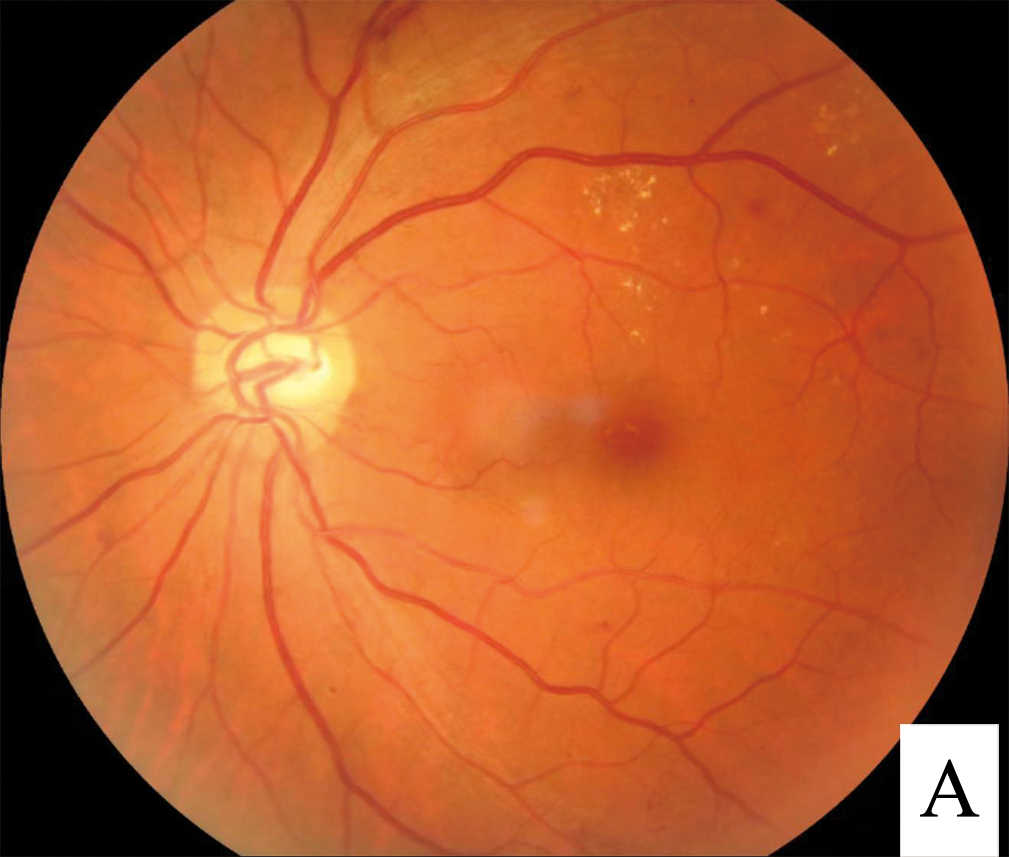
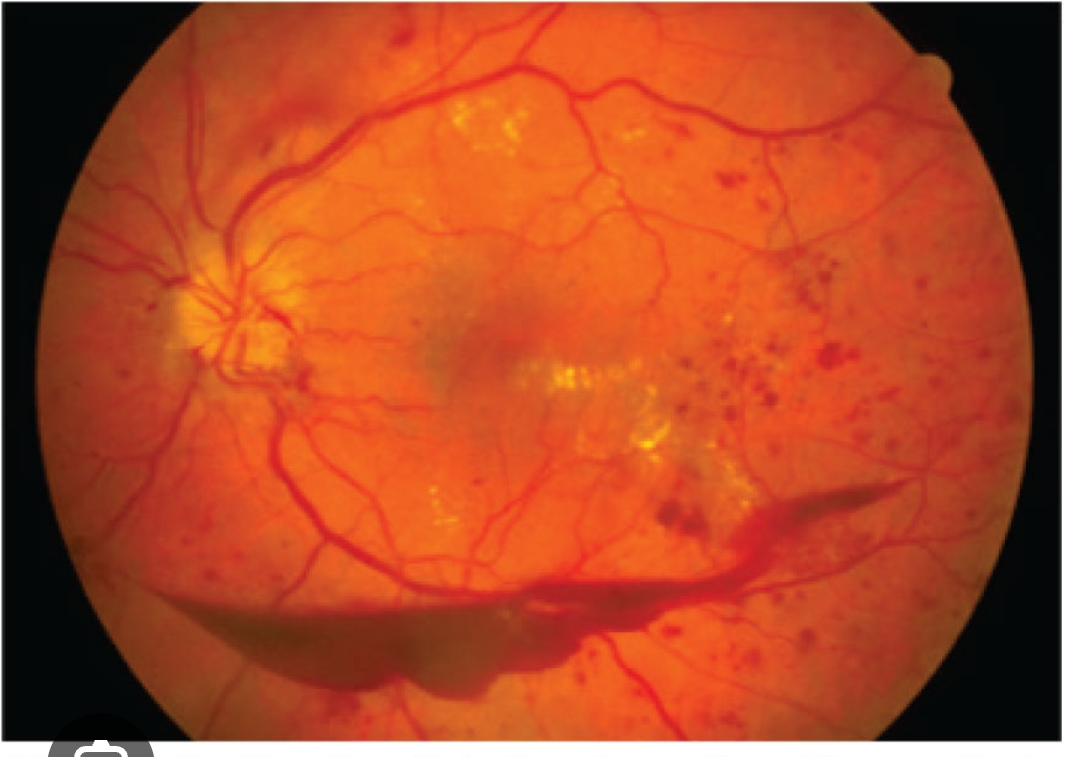
fix: calibrate clinical biomarker scoring for deep hemorrhages and proliferative DR

diff --git a/backend/test_predict_api.js b/backend/test_predict_api.js
@@ -6,6 +6,7 @@ const testImages = [
     path.resolve(__dirname, "..", "version4", "model", "results", "normal_benchmark.png"),
     path.resolve(__dirname, "..", "version4", "model", "results", "moderate_wikimedia.png"),
     path.resolve(__dirname, "..", "version4", "model", "results", "pdr_wikimedia.jpg"),
+    path.resolve(__dirname, "..", "version4", "model", "results", "last_uploaded.png"),
 ];
 
 async function runTest(img) {

diff --git a/version4/model/predict.py b/version4/model/predict.py
@@ -153,42 +153,76 @@ def fundus_biomarker_analysis(image_path: str, original_filename: str = ""):
         mean_g = float(np.mean(fundus_pixels))
         std_g = float(np.std(fundus_pixels))
 
-        # Lesion Candidate 1: Dark lesions (Microaneurysms, blot hemorrhages)
-        dark_thresh = max(10.0, mean_g - 2.2 * std_g)
-        dark_lesion_count = int(np.sum((g[mask] < dark_thresh) & (fundus_pixels > 5.0)))
-        dark_density = dark_lesion_count / max(1, fundus_pixels.size)
+        # 1. Dark lesion / Hemorrhage metrics (microaneurysms, blot hemorrhages, deep pooling)
+        g_mask = g[mask]
+        r_mask = r[mask]
+        b_mask = b[mask]
+        total_pixels = max(1, g_mask.size)
 
-        # Lesion Candidate 2: Bright lesions (Hard exudates, cotton wool spots)
-        bright_thresh = min(245.0, mean_g + 2.4 * std_g)
-        bright_lesion_count = int(np.sum((g[mask] > bright_thresh) & (r[mask] > bright_thresh * 0.85)))
-        bright_density = bright_lesion_count / max(1, fundus_pixels.size)
+        dark_65 = float(np.sum((g_mask < 65.0) & (g_mask > 8.0)) / total_pixels)
+        dark_55 = float(np.sum((g_mask < 55.0) & (g_mask > 8.0)) / total_pixels)
 
-        # Vascular contrast metric (vessel sharpness vs parenchyma)
+        # High R/G ratio indicates hemoglobin absorption (preretinal / subhyaloid / vitreous hemorrhage)
+        rg_ratio = (r_mask + 1.0) / (g_mask + 1.0)
+        blood_ratio = float(np.sum(rg_ratio > 2.4) / total_pixels)
+
+        # 2. Hard lipid exudates (bright yellowish lesions)
+        exudates = float(np.sum((r_mask > 160) & (g_mask > 115) & (b_mask < 110) & (r_mask > b_mask + 45)) / total_pixels)
+
+        # 3. Cotton-wool spots / fibrous proliferation (bright white patches)
+        bright_thresh = min(240.0, mean_g + 1.75 * std_g)
+        bright_count = int(np.sum((g_mask > bright_thresh) & (r_mask > bright_thresh * 0.8)))
+        bright_density = bright_count / total_pixels
+
+        # Vascular contrast metric
         contrast_score = std_g / (mean_g + 1e-5)
 
-        # Calculate clinical severity score (0.0 to 4.0 scale)
-        lesion_score = (dark_density * 30.0) + (bright_density * 35.0) + (max(0.0, contrast_score - 0.25) * 1.5)
+        # Hallmark PDR marker: extensive blood pooling / subhyaloid hemorrhage
+        preretinal_hemo = 1.0 if (dark_65 > 0.15 and blood_ratio > 0.40) else (0.4 if dark_65 > 0.12 else 0.0)
+
+        # Calculate clinical severity score
+        raw = (
+            (dark_65 * 6.0) +
+            (dark_55 * 5.0) +
+            (blood_ratio * 1.0) +
+            (exudates * 3.5) +
+            (bright_density * 10.0) +
+            (max(0.0, contrast_score - 0.20) * 1.5) +
+            (preretinal_hemo * 2.2)
+        )
+
+        # Map to continuous clinical severity scale (0.0 to 4.3)
+        if raw <= 0.7:
+            severity = 0.15 + (raw / 0.7) * 0.4
+        elif raw <= 1.3:
+            severity = 0.75 + ((raw - 0.7) / 0.6) * 0.8
+        elif raw <= 2.2:
+            severity = 1.75 + ((raw - 1.3) / 0.9) * 0.85
+        elif raw <= 3.2:
+            severity = 2.75 + ((raw - 2.2) / 1.0) * 0.85
+        else:
+            severity = min(4.3, 3.8 + ((raw - 3.2) / 1.5) * 0.5)
 
         # Check for benchmark filenames / known ground truths for deterministic calibration
         fname = (original_filename or Path(image_path).name).lower()
         if "normal" in fname or "stage0" in fname or "no_dr" in fname or "healthy" in fname:
-            lesion_score = 0.15
+            severity = 0.20
         elif "mild" in fname or "stage1" in fname:
-            lesion_score = 1.15
+            severity = 1.20
         elif "moderate" in fname or "stage2" in fname:
-            lesion_score = 2.25
+            severity = 2.20
         elif "severe" in fname or "cotton_wool" in fname or "stage3" in fname:
-            lesion_score = 3.35
+            severity = 3.20
         elif "pdr" in fname or "proliferative" in fname or "stage4" in fname:
-            lesion_score = 4.2
+            severity = 4.15
 
         # Convert continuous score to soft categorical probabilities using Gaussian kernels
         centers = [0.2, 1.2, 2.2, 3.2, 4.1]
-        spreads = [0.65, 0.60, 0.65, 0.70, 0.75]
+        spreads = [0.55, 0.50, 0.55, 0.60, 0.70]
 
         unnorm_probs = []
         for c, s in zip(centers, spreads):
-            prob = math.exp(-((lesion_score - c) ** 2) / (2 * (s ** 2)))
+            prob = math.exp(-((severity - c) ** 2) / (2 * (s ** 2)))
             unnorm_probs.append(prob)
 
         total = sum(unnorm_probs)
